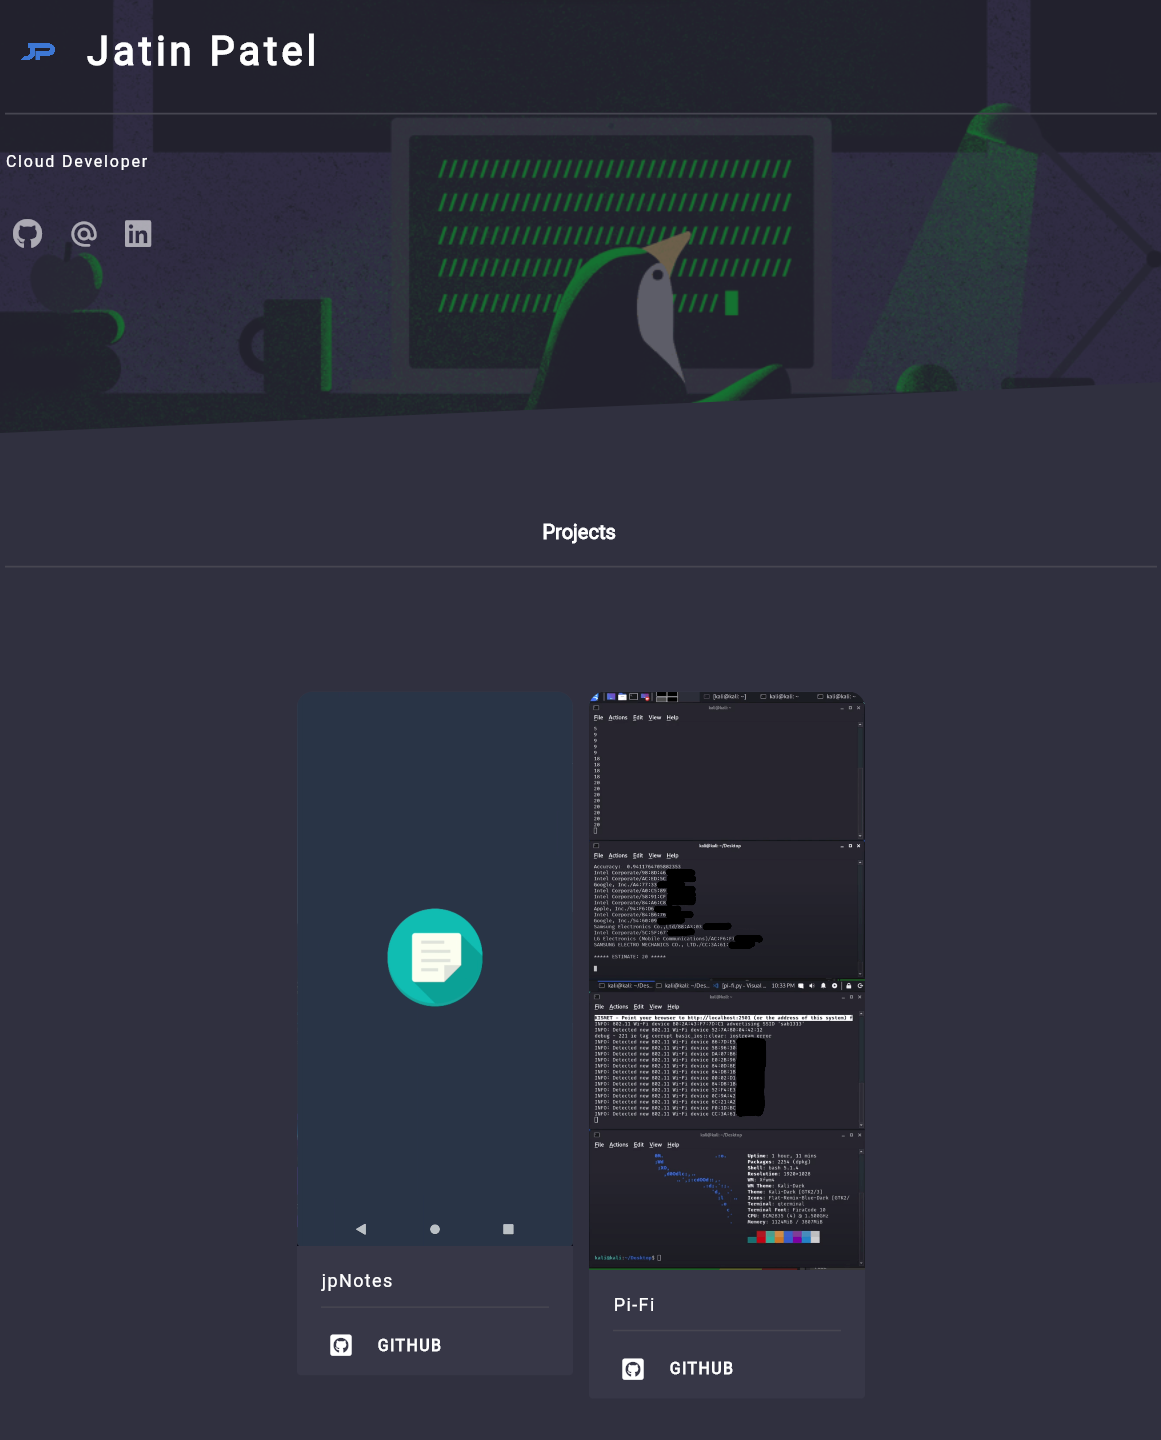
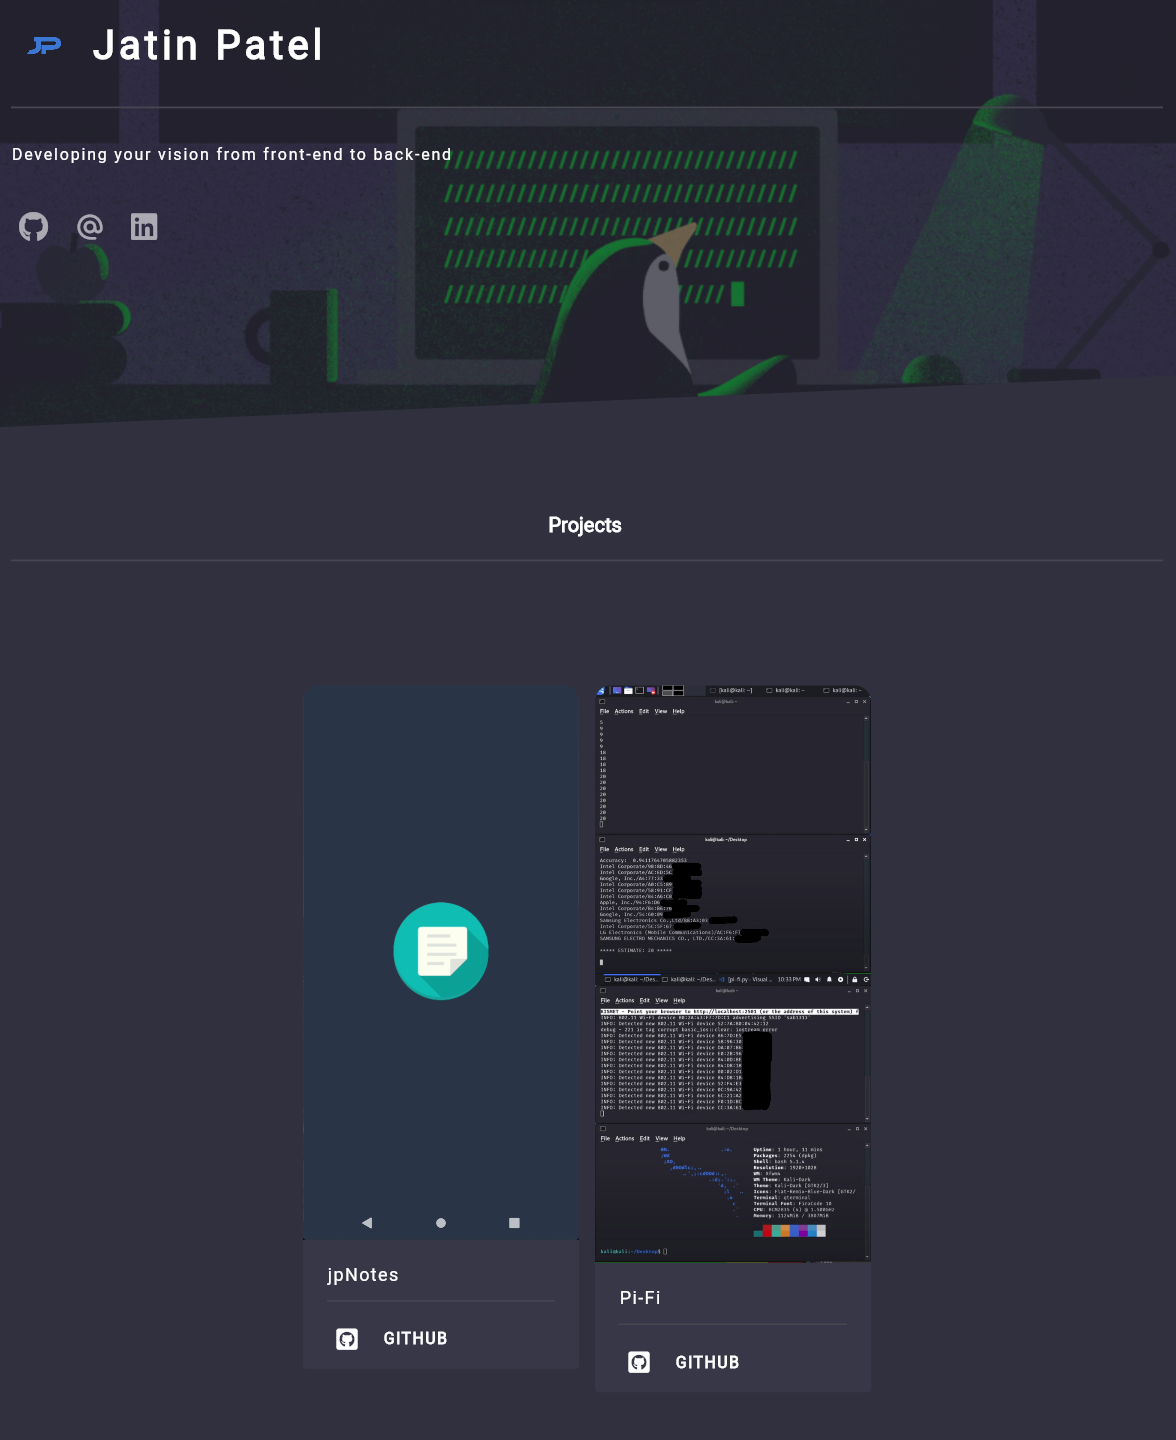
updated screenshot

diff --git a/lib/utilities/app_constants.dart b/lib/utilities/app_constants.dart
@@ -6,7 +6,8 @@ abstract class AppConstants {
   static const showcaseTitle = 'Projects';
   static const showcaseDescription = '';
   static const landingTitle = 'Jatin Patel';
-  static const landingMotto = 'Cloud Developer';
+  static const landingMotto =
+      'Developing your vision from front-end to back-end';
 
   static const webSiteURL = 'jatinp.com';
   static const gitHubProfileURL = 'https://github.com/jatin-p';
